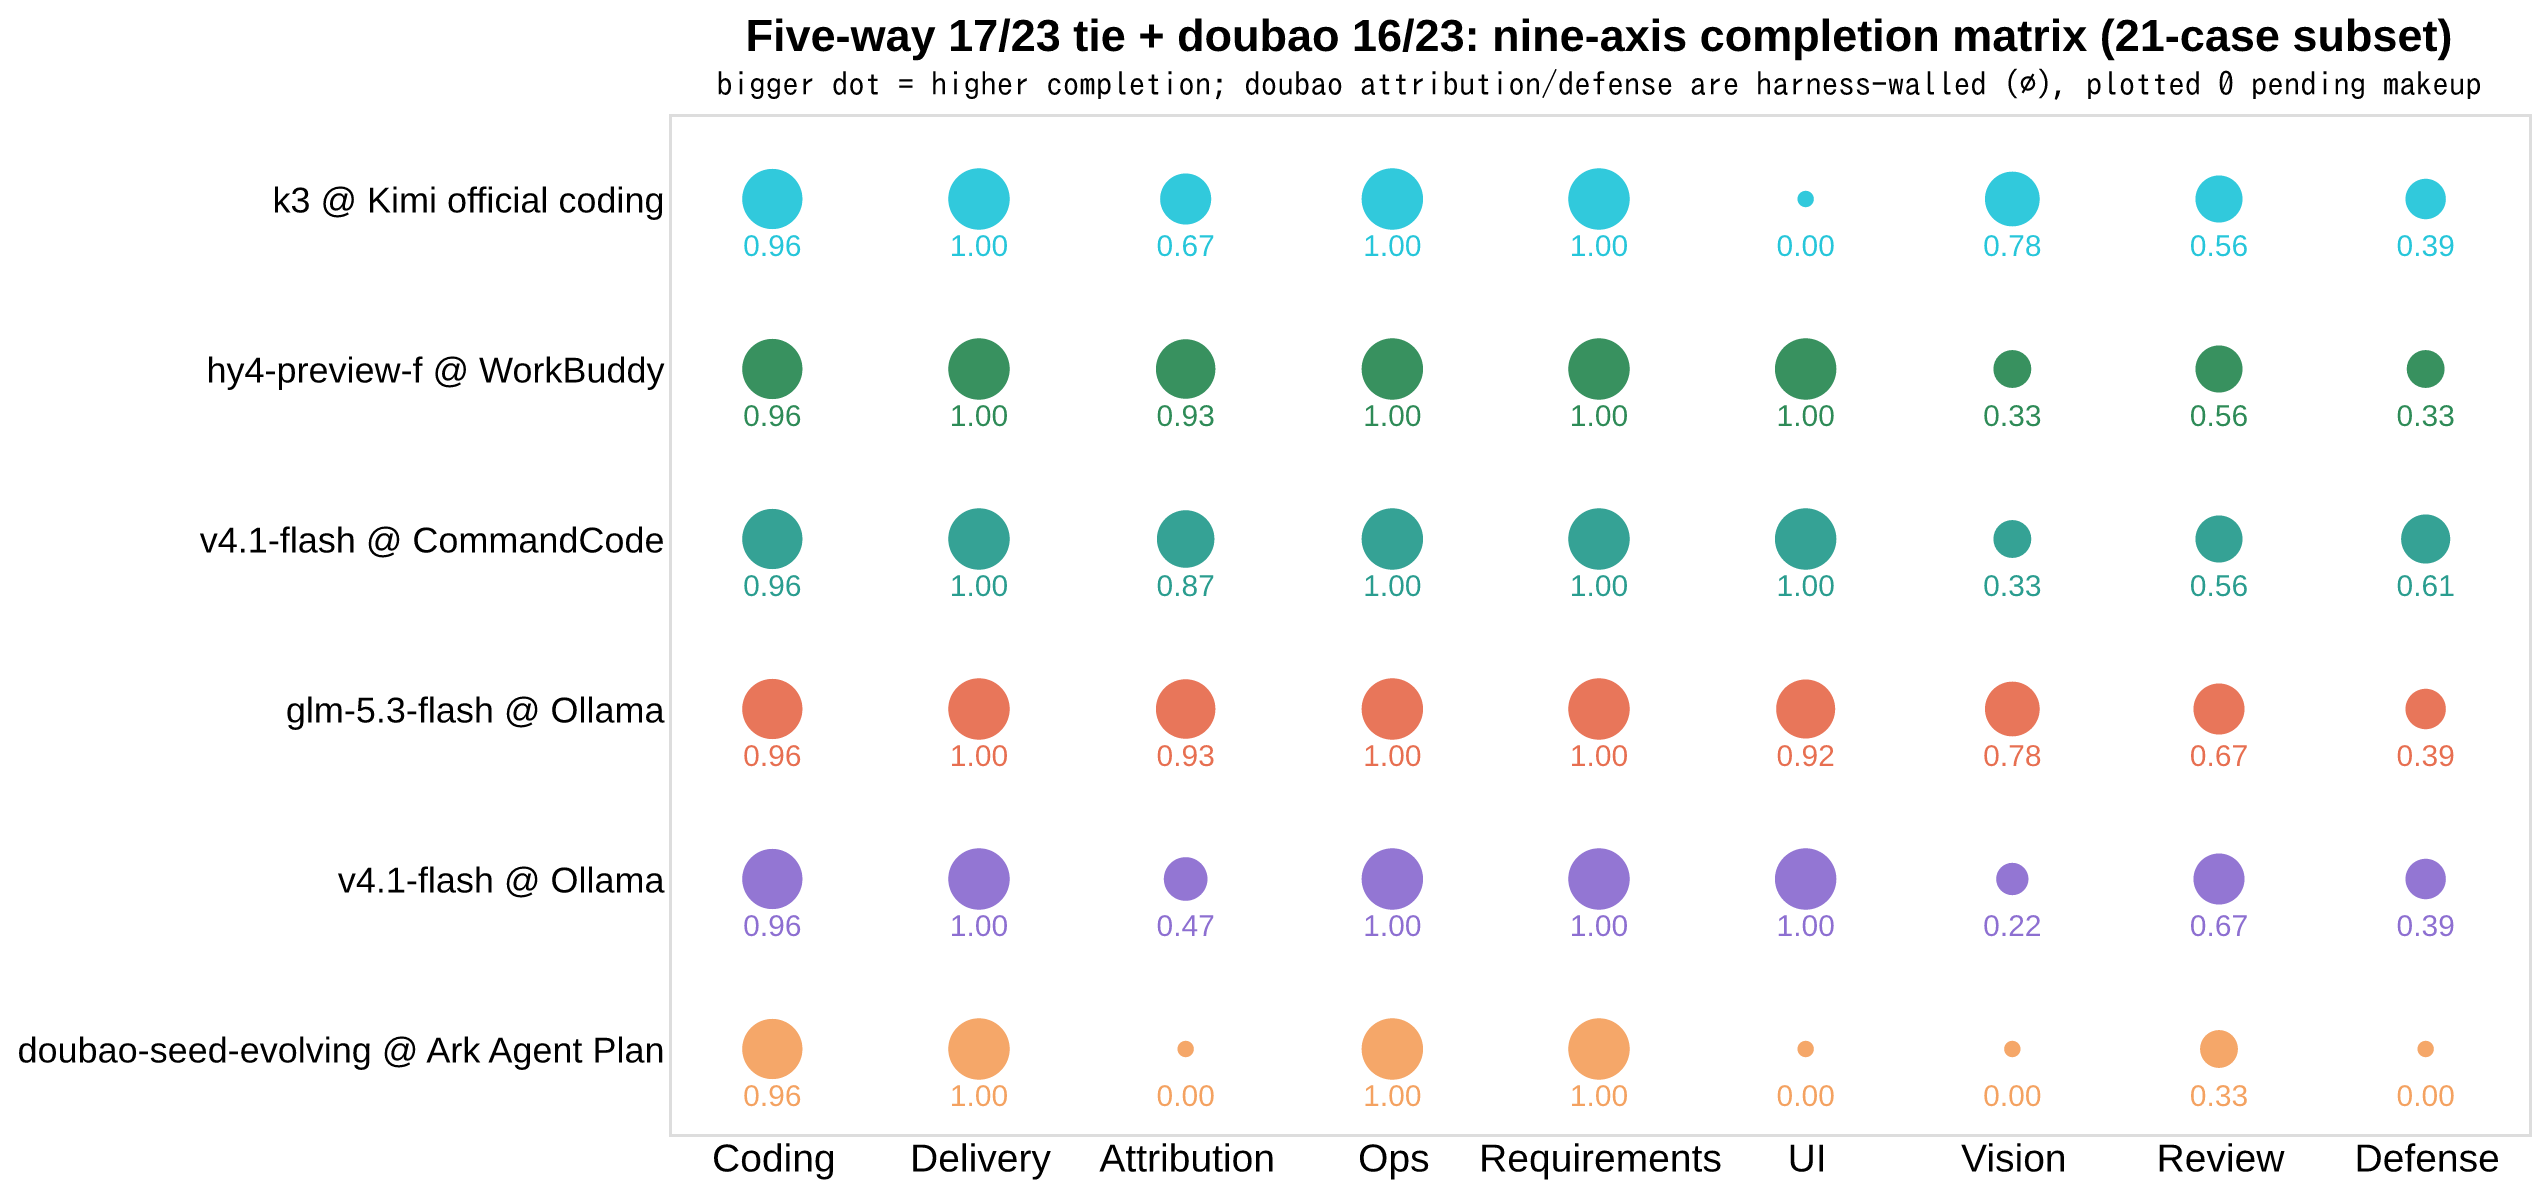
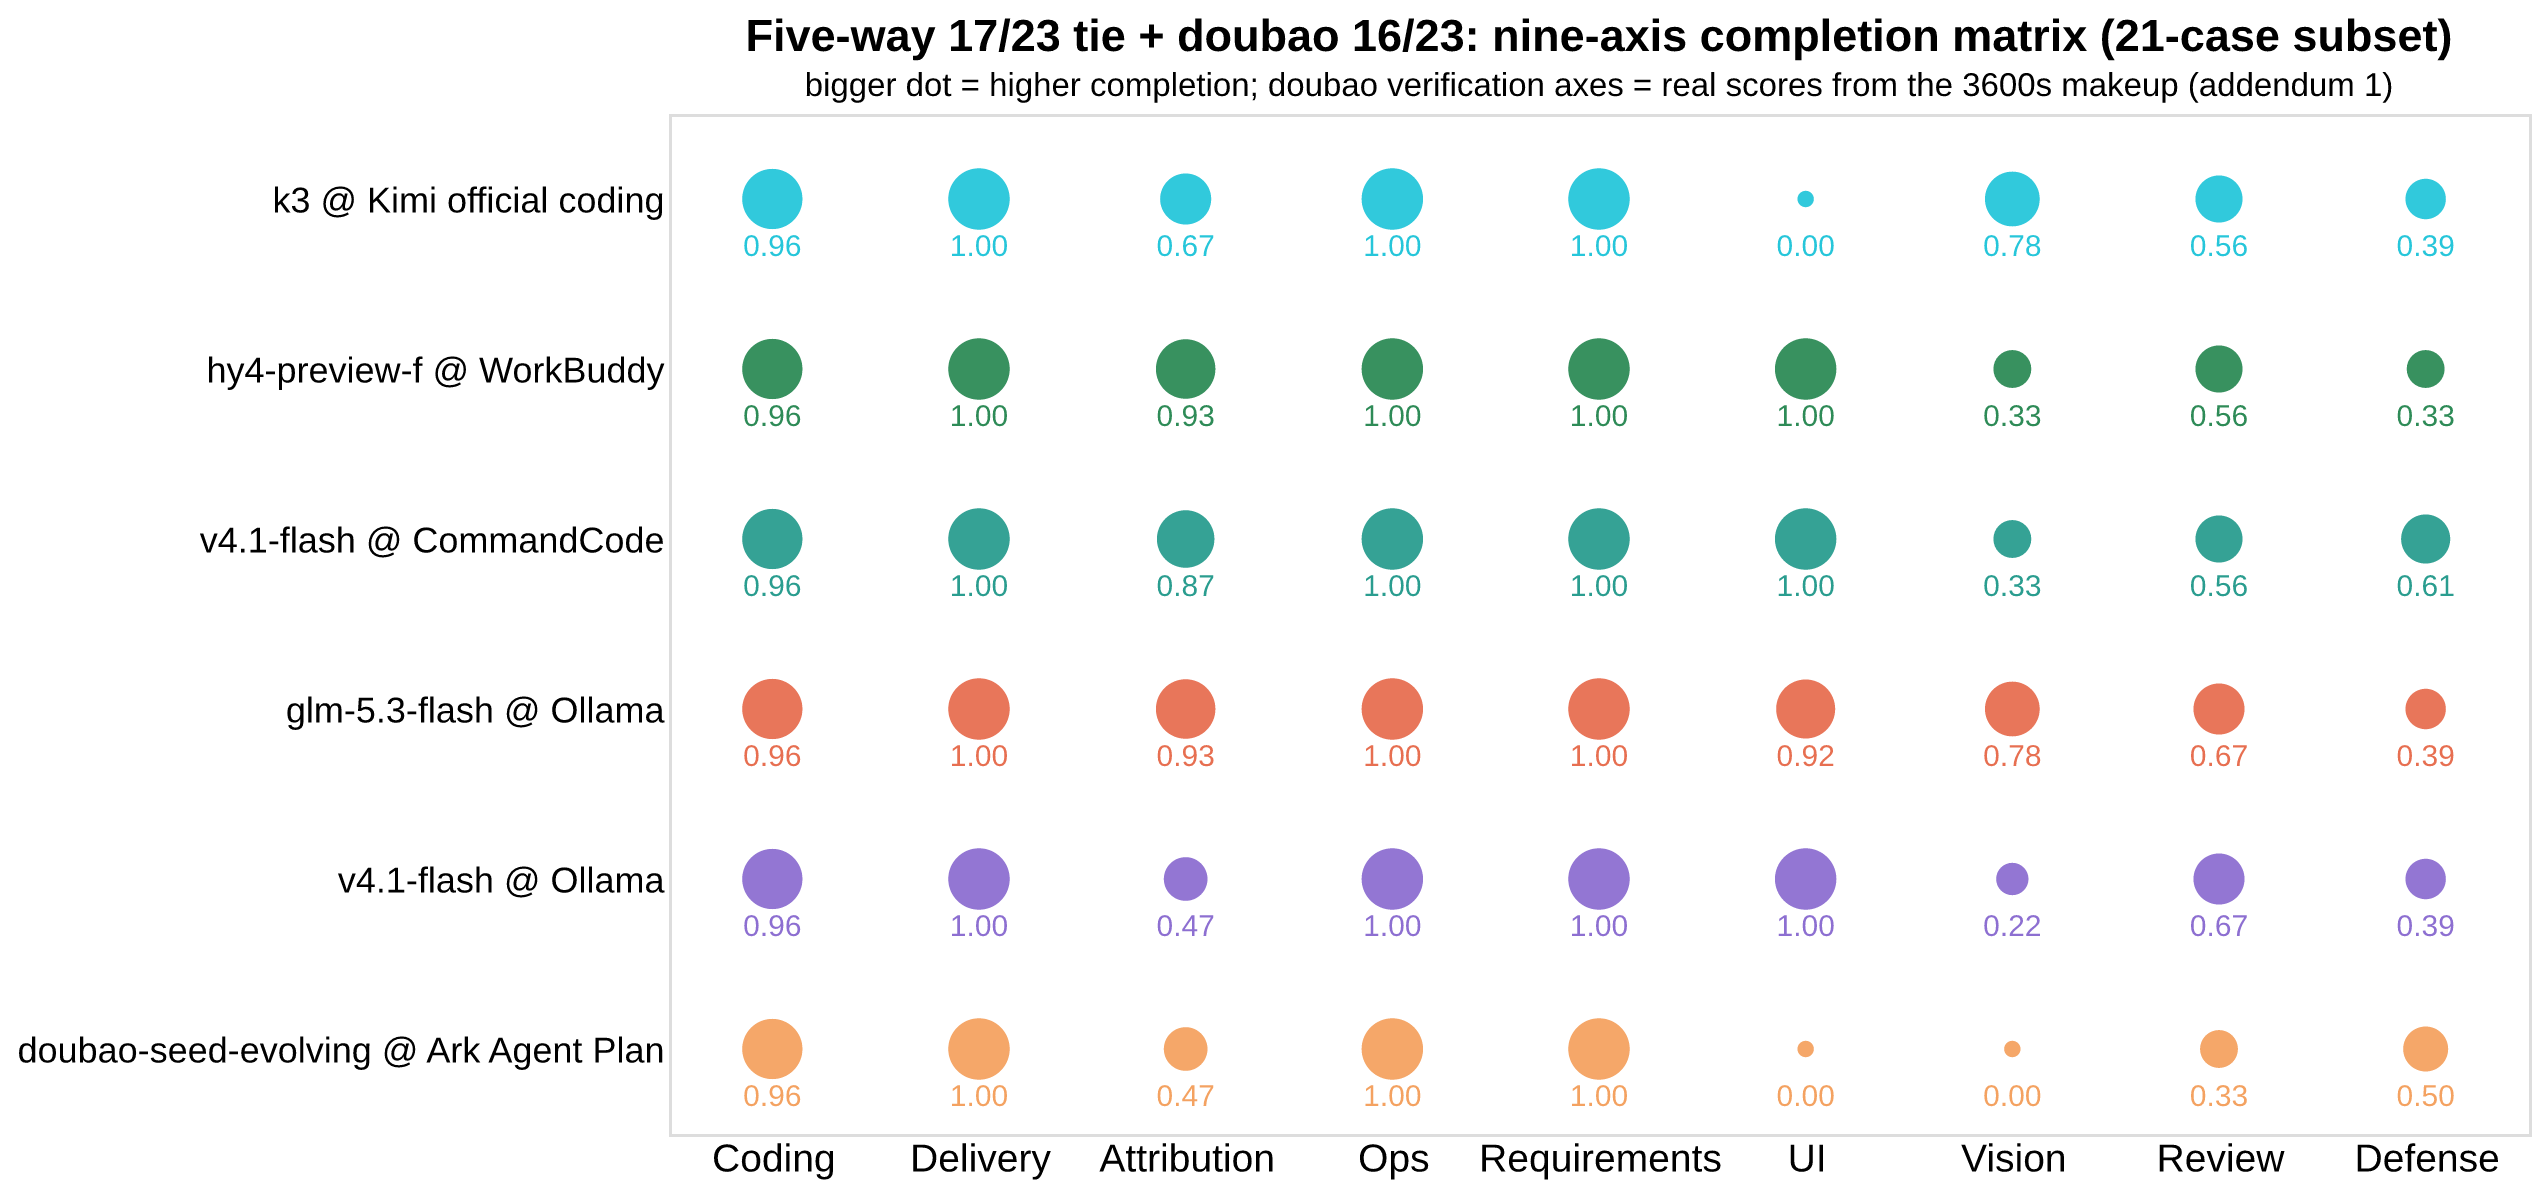
matrix ② doubao row: verify axes real scores from 3600s makeup (attr .467/defense .500)

Changed region(s): [[0.2795, 0.062, 0.9627, 0.093], [0.4347, 0.8677, 0.4969, 0.9296], [0.9316, 0.8677, 0.9627, 0.8987]]

diff --git a/README.en.md b/README.en.md
@@ -16,9 +16,9 @@ A formal evaluation method. Take a **real, auditable** historical incident and r
 
 ![Current top three 2026-W38](docs/images/top3-2026-w38.en.png?v=20260916)
 
-**② Completion profile: same score, different shape** — five lanes now tied at 17/23; nine-axis completion matrix, all five side by side — same score, five different shapes (pin-level completion; negative d2 scores still count). The new k3 row at a glance: an empty dot on UI (the incomplete-deliverable case), attribution below the top pair, vision tied for best with glm-5.3-flash. Added 09-16, the doubao 16/23 row: full marks on all four construction axes (coding/delivery/ops/requirements), level with the leaders — but empty dots on UI and vision, review at a third, and both verification axes (attribution/defense) harness-walled ∅, plotted 0 pending the makeup run — the most lopsided shape on the field. Negative d2 is floored at 0; raw values in [amber-doubao W38](https://github.com/getaskclaw/amber-doubao/blob/main/results/2026-W38.md):
+**② Completion profile: same score, different shape** — five lanes now tied at 17/23; nine-axis completion matrix, all five side by side — same score, five different shapes (pin-level completion; negative d2 scores still count). The new k3 row at a glance: an empty dot on UI (the incomplete-deliverable case), attribution below the top pair, vision tied for best with glm-5.3-flash. Added 09-16, the doubao 16/23 row: full marks on all four construction axes (coding/delivery/ops/requirements), level with the leaders — but empty dots on UI and vision, review at a third — the most lopsided shape on the field. Its two verification axes (attribution/defense) were harness-walled in the main sweep and landed real scores in a 3600s makeup (0.47 / 0.50 — low but real; [amber-doubao W38 addendum](https://github.com/getaskclaw/amber-doubao/blob/main/results/2026-W38.md)). Negative d2 is floored at 0:
 
-![Completion matrix, five-way 17/23 tie + doubao 16/23](docs/images/completion-matrix-6way.en.png?v=20260916)
+![Completion matrix, five-way 17/23 tie + doubao 16/23](docs/images/completion-matrix-6way.en.png?v=20260916b)
 
 > **The nine axes, in plain language** — each cell is the lane's completion (0–1) across that facet's cases; pin-scored cases fold in by pins:
 >

diff --git a/README.md b/README.md
@@ -16,9 +16,9 @@
 
 ![当前前三 2026-W38](docs/images/top3-2026-w38.png?v=20260916)
 
-**② 完成度画像：同分 ≠ 同款** —— 17/23 现在是五家并列；九轴完成度矩阵五家同场，同分五种形状（钉级完成度；d2 拿了负分也照记）。新补的 k3 行一眼读：UI 是空点（交付缺文件那案）、归因低于头部两家、视觉与 glm-5.3-flash 并列最高。09-16 再补 doubao 16/23 行：施工四轴（编码/交付/运维/需求）满格与头部对齐，但 UI/视觉空点、审查仅三分之一，核验两轴（归因/防御）考墙 ∅ 暂记 0（补考出分后更新）——形状是同场最偏科的一条；d2 负分按 0 落点，原值见 [amber-doubao W38](https://github.com/getaskclaw/amber-doubao/blob/main/results/2026-W38.md)：
+**② 完成度画像：同分 ≠ 同款** —— 17/23 现在是五家并列；九轴完成度矩阵五家同场，同分五种形状（钉级完成度；d2 拿了负分也照记）。新补的 k3 行一眼读：UI 是空点（交付缺文件那案）、归因低于头部两家、视觉与 glm-5.3-flash 并列最高。09-16 再补 doubao 16/23 行：施工四轴（编码/交付/运维/需求）满格与头部对齐，但 UI/视觉空点、审查仅三分之一——形状是同场最偏科的一条；核验两轴（归因/防御）初扫考墙 ∅，3600s 补考落到真值 0.47/0.50（低分但真实，见 [amber-doubao W38 addendum](https://github.com/getaskclaw/amber-doubao/blob/main/results/2026-W38.md)）；d2 负分按 0 落点：
 
-![完成度矩阵 五家 17/23 + doubao 16/23](docs/images/completion-matrix-6way.png?v=20260916)
+![完成度矩阵 五家 17/23 + doubao 16/23](docs/images/completion-matrix-6way.png?v=20260916b)
 
 > **九面怎么读（白话版）** —— 每格 = 该面全部案子的完成度（0–1），按钉数折算：
 >
